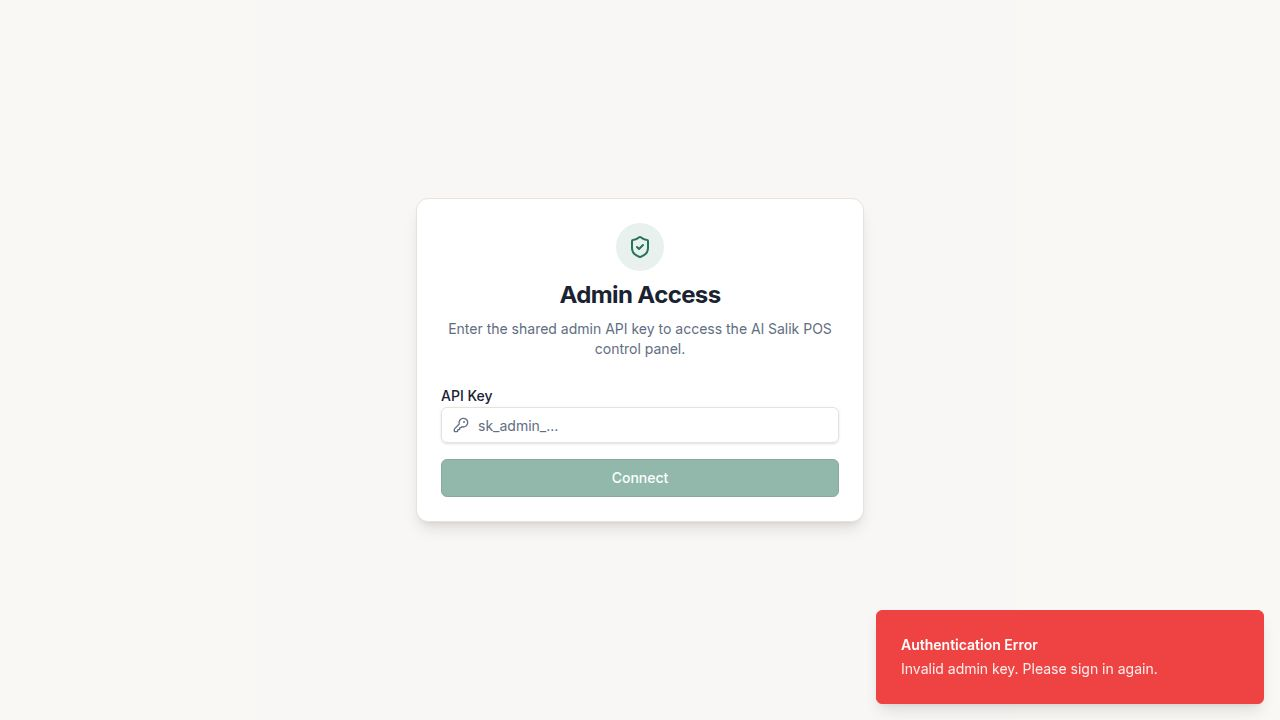
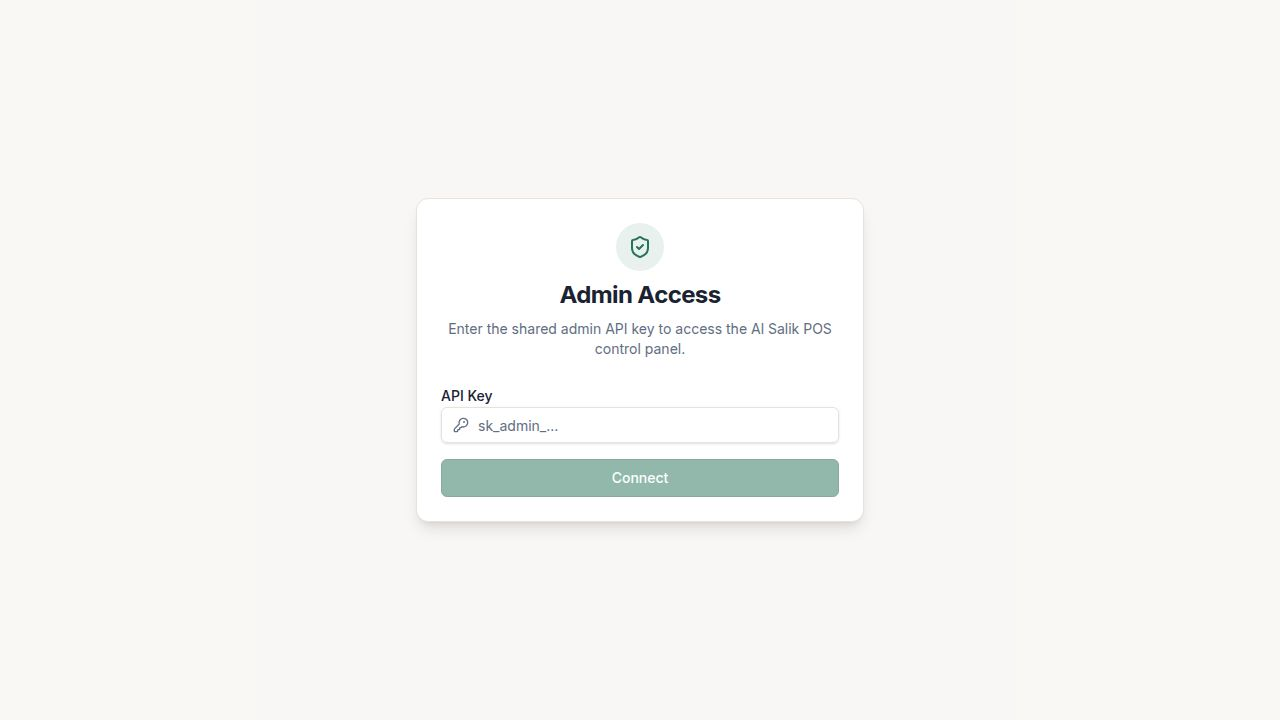
Harden license loading and update installer packaging
Update `saasStorage.ts` to include runtime validation for persisted license data, preventing potential issues with malformed session data. Additionally, a new installer artifact is added with a hardened offline license and login layout.

Replit-Commit-Author: Agent
Replit-Commit-Session-Id: 05426635-33cc-4f22-abd7-ceed83dbf5f2
Replit-Commit-Checkpoint-Type: full_checkpoint
Replit-Commit-Event-Id: a01c563e-5db9-490a-9009-90c3bb0ded51
Replit-Commit-Screenshot-Url: https://storage.googleapis.com/screenshot-production-us-central1/e5d4b5ac-dd1d-4ce5-ad0e-7230fc3e7034/05426635-33cc-4f22-abd7-ceed83dbf5f2/tRx2lJK
Replit-Helium-Checkpoint-Created: true

Changed region(s): [[0.6562, 0.825, 1.0, 1.0]]

diff --git a/artifacts/pos-app/lib/saasStorage.ts b/artifacts/pos-app/lib/saasStorage.ts
@@ -117,17 +117,27 @@ export async function loadSession(): Promise<LicenseSession | null> {
     return null;
   }
   try {
-    const license = JSON.parse(licenseRaw) as Partial<StoredLicense> & {
-      id: string;
-      expiresAt: string | null;
-      maxDevices: number;
-    };
-    // Default to "online" for sessions persisted before licenseType existed.
+    // Runtime validation, not just a TS cast — old sessions persisted before
+    // `licenseType` existed are tolerated, but malformed shapes (missing id /
+    // wrong types) drop the session and force re-activation rather than
+    // letting `undefined` reach downstream license/sync logic.
+    const raw = JSON.parse(licenseRaw) as unknown;
+    if (!raw || typeof raw !== "object") return null;
+    const r = raw as Record<string, unknown>;
+    if (typeof r["id"] !== "string") return null;
+    if (typeof r["maxDevices"] !== "number" || !Number.isFinite(r["maxDevices"])) {
+      return null;
+    }
+    const expiresAt = r["expiresAt"];
+    if (expiresAt !== null && typeof expiresAt !== "string" && expiresAt !== undefined) {
+      return null;
+    }
     const normalizedLicense: StoredLicense = {
-      id: license.id,
-      expiresAt: license.expiresAt ?? null,
-      maxDevices: license.maxDevices,
-      licenseType: license.licenseType === "offline" ? "offline" : "online",
+      id: r["id"],
+      expiresAt: typeof expiresAt === "string" ? expiresAt : null,
+      maxDevices: r["maxDevices"],
+      // Default to "online" for sessions persisted before licenseType existed.
+      licenseType: r["licenseType"] === "offline" ? "offline" : "online",
     };
     return {
       token,

diff --git a/desktop-installer/www/index.html b/desktop-installer/www/index.html
@@ -32,6 +32,6 @@
     </noscript>
     <!-- The root element for your Expo app. -->
     <div id="root"></div>
-  <script src="/_expo/static/js/web/entry-1b14644191f76a1cd7b03ac863dff1a8.js" defer></script>
+  <script src="/_expo/static/js/web/entry-9f5c42d3233bae1c9d30c39f7f165b85.js" defer></script>
 </body>
 </html>

diff --git a/replit.md b/replit.md
@@ -44,6 +44,7 @@ A mobile-first Point of Sale (POS) system for the UAE market, offering sales, in
 ## Architecture decisions
 
 -   **Multi-tenant SaaS via license keys**: Activation requires `POST /api/license/validate` with `licenseKey` and `deviceUid` to obtain a device JWT. Licenses are issued via admin endpoints.
+-   **License types**: `online` licenses keep the cloud sync engine running; `offline` licenses activate online once, persist `expiresAt` locally, then run with sync hard-disabled (enforced in `SyncContext` and `LicenseContext.refresh`). Local expiry is checked on mount so the device re-activates without contacting the server.
 -   **License gate above all providers**: The POS client's local database only opens after successful license validation; session restored from AsyncStorage.
 -   **Append-only sales sync**: Sales are pushed to the server in batches, with idempotency enforced by `UNIQUE(company_id, client_sale_id)`.
 -   **Client outbound sync queue**: A local `sync_queue` table tracks pending pushes, processed in batches with exponential backoff.